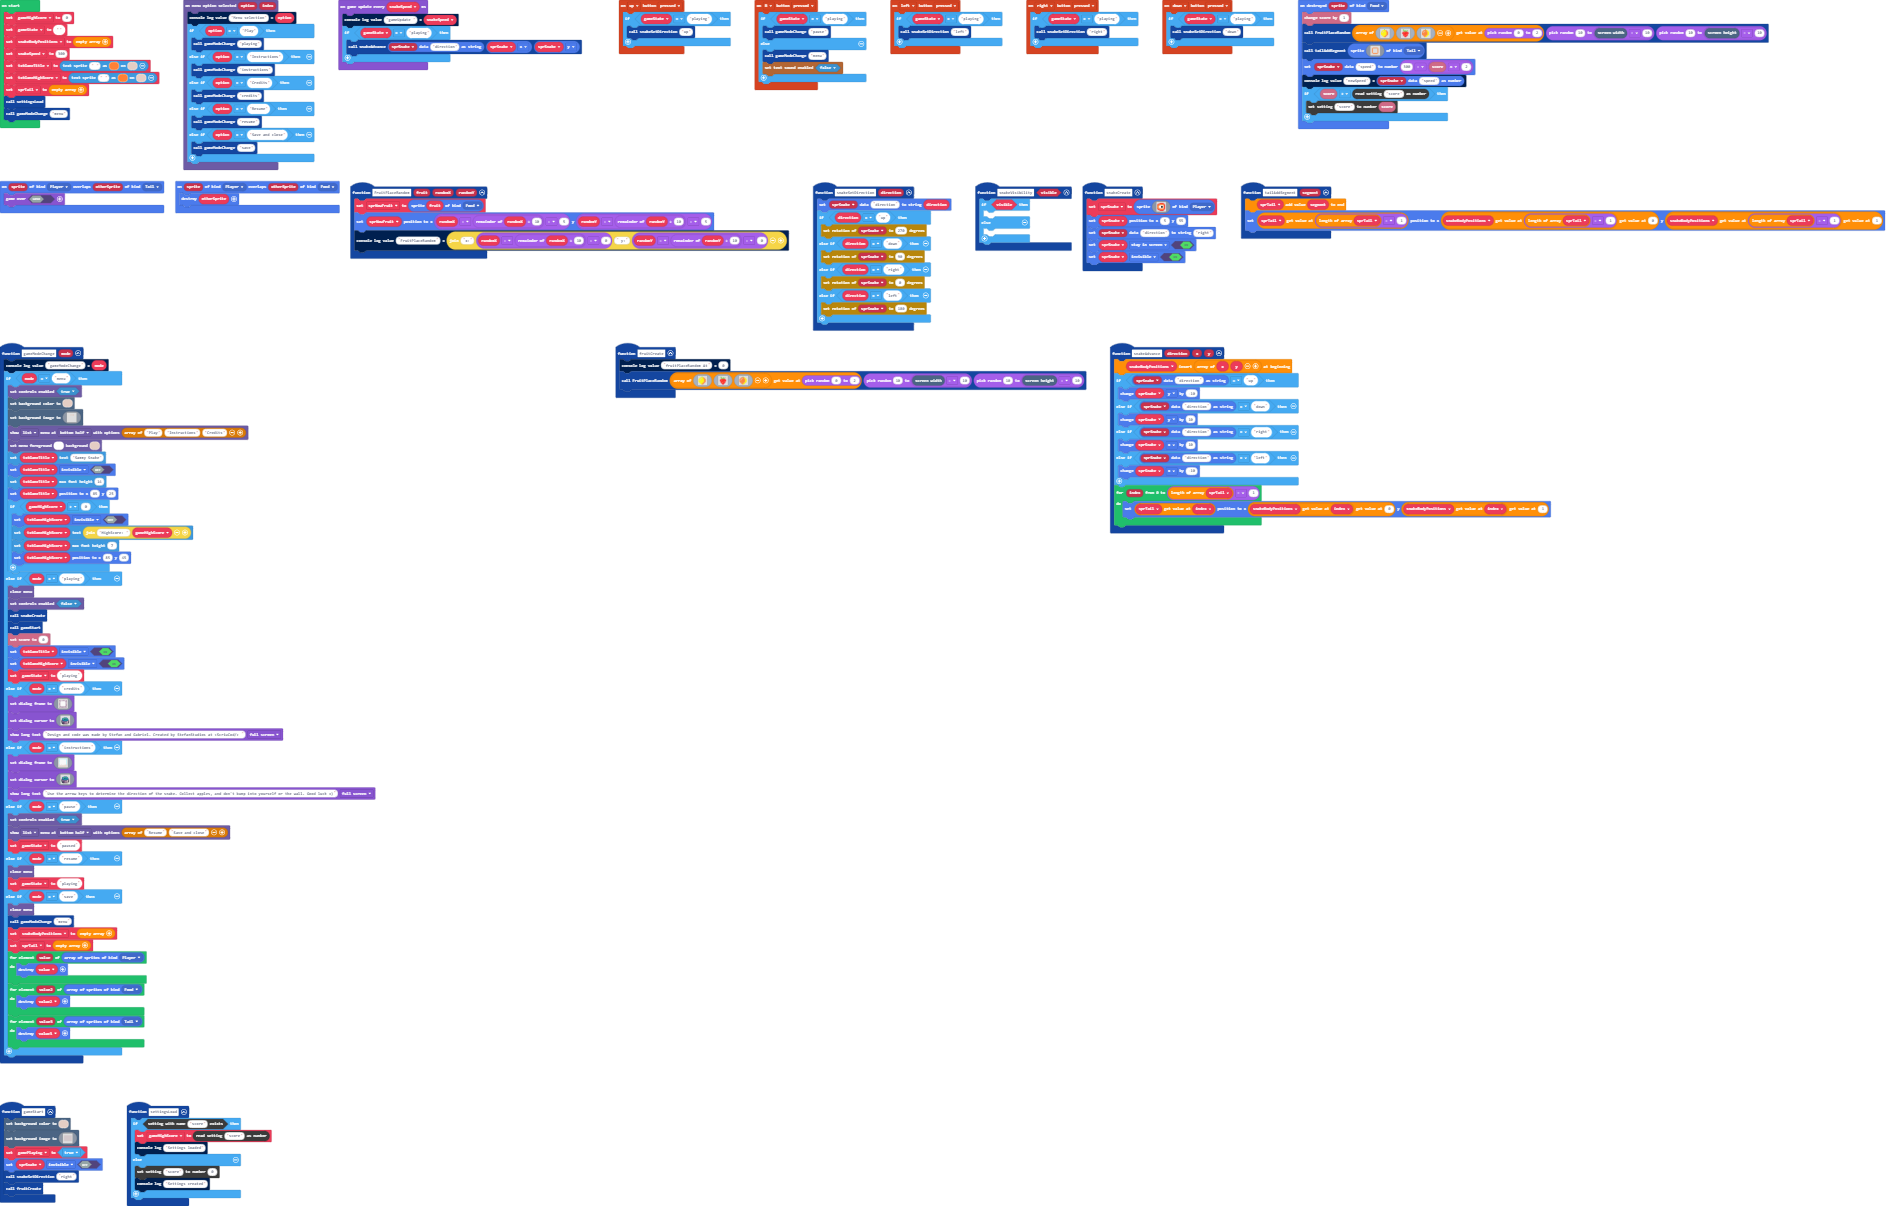
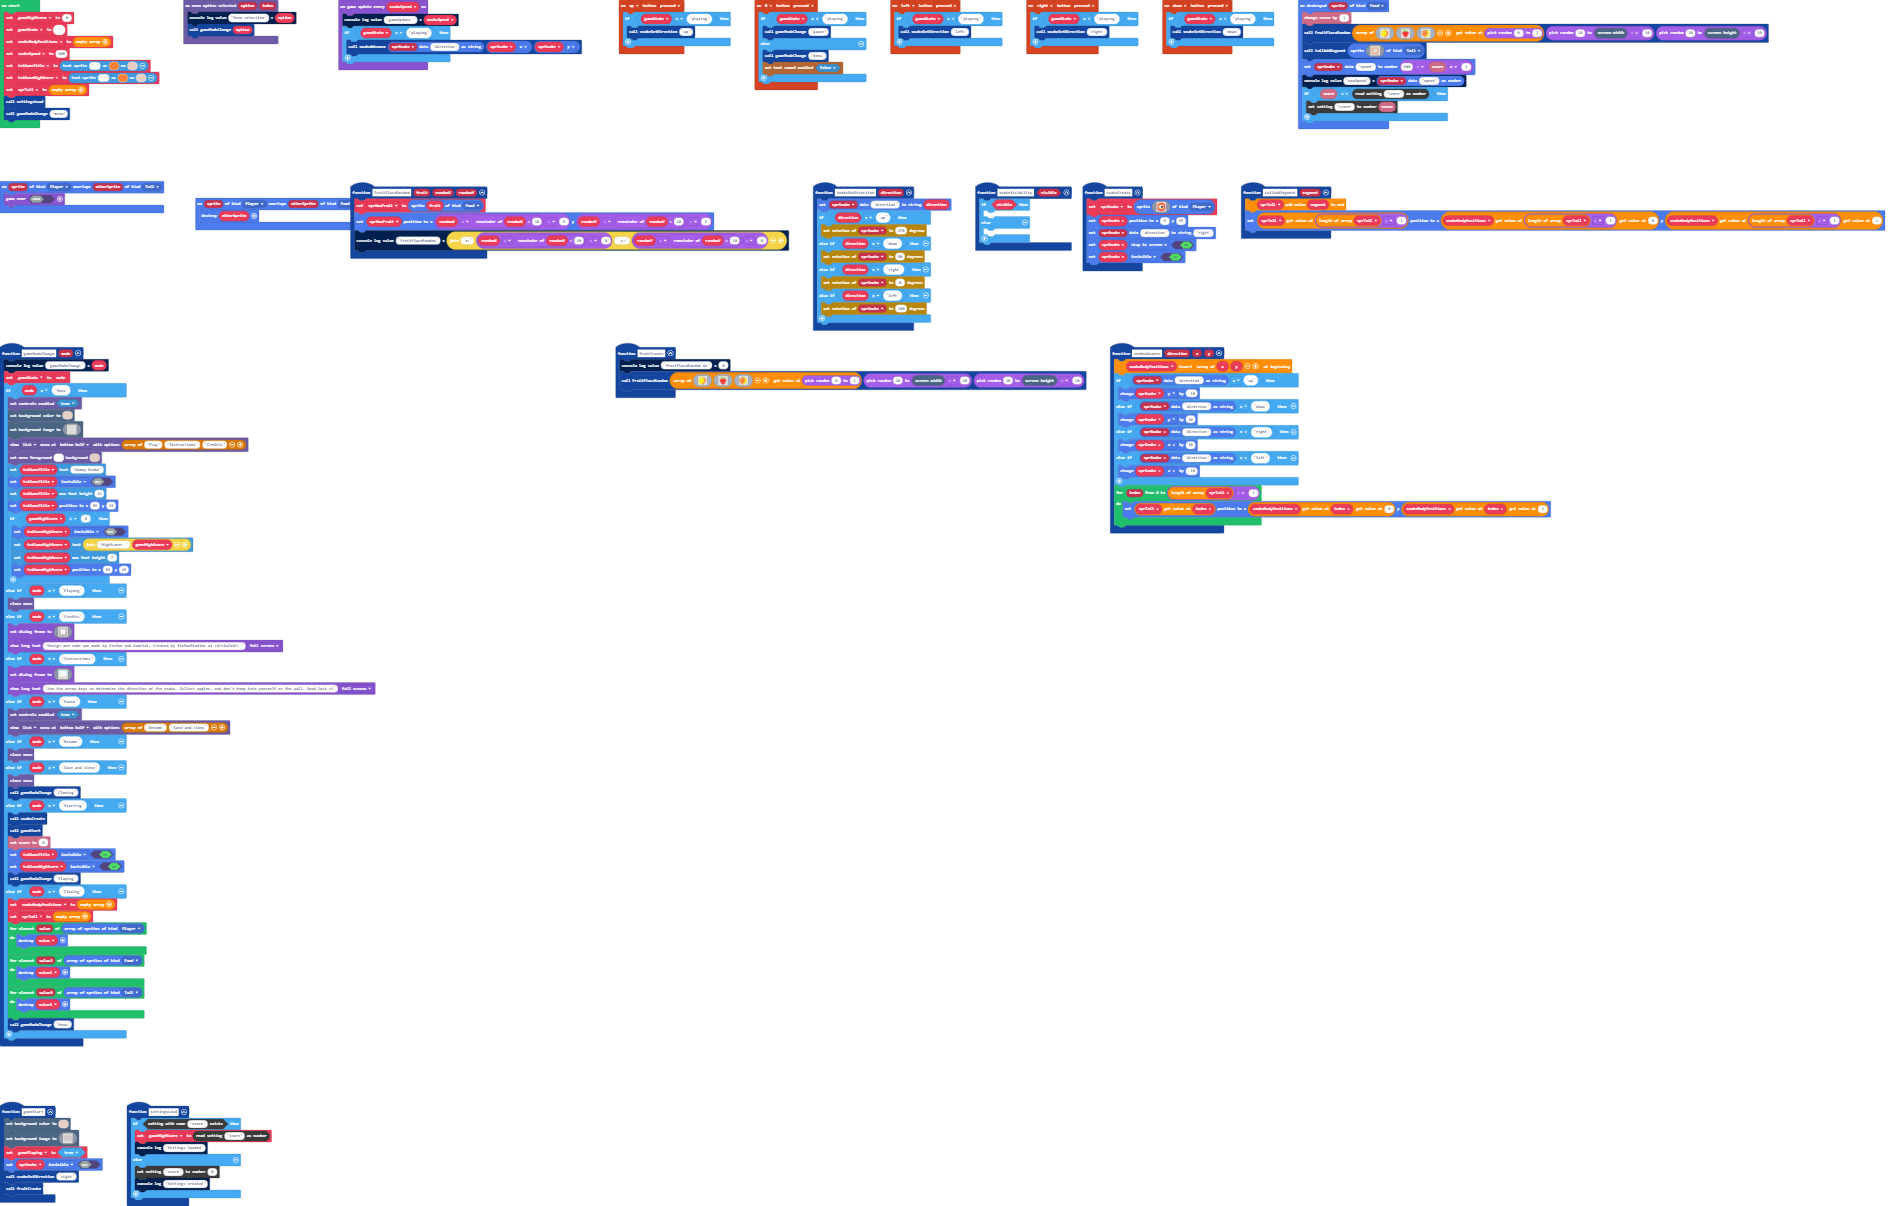
Started adding the game modes Closing, and Starting.

Changed region(s): [[0.0, 0.3068, 0.2176, 0.8897], [0.0933, 0.0, 0.1865, 0.2148]]

diff --git a/main.ts b/main.ts
@@ -69,7 +69,8 @@ function tailAddSegment (segment: Sprite) {
 }
 function gameModeChange (mode: string) {
     console.logValue("gameModeChange", mode)
-    if (mode == "menu") {
+    gameState = mode
+    if (mode == "Menu") {
         blockMenu.setControlsEnabled(true)
         scene.setBackgroundColor(13)
         scene.setBackgroundImage(img`
@@ -206,16 +207,9 @@ function gameModeChange (mode: string) {
             txtGameHighScore.setMaxFontHeight(7)
             txtGameHighScore.setPosition(85, 45)
         }
-    } else if (mode == "playing") {
+    } else if (mode == "Playing") {
         blockMenu.closeMenu()
-        blockMenu.setControlsEnabled(false)
-        snakeCreate()
-        gameStart()
-        info.setScore(0)
-        txtGameTitle.setFlag(SpriteFlag.Invisible, true)
-        txtGameHighScore.setFlag(SpriteFlag.Invisible, true)
-        gameState = "playing"
-    } else if (mode == "credits") {
+    } else if (mode == "Credits") {
         game.setDialogFrame(img`
             ..bbbbbbbbbbbbbbbbbbbb..
             .b11bb11bb11bb11bb11bbb.
@@ -242,42 +236,8 @@ function gameModeChange (mode: string) {
             .bbb11bb11bb11bb11bb11b.
             ..bbbbbbbbbbbbbbbbbbbb..
             `)
-        game.setDialogCursor(img`
-            ................................
-            ................................
-            ................................
-            ................................
-            ................................
-            ..........888888888888..........
-            ........8887777777777888........
-            ......88877666666666677888......
-            .....8877666667777666667788.....
-            ....887666667788887766666788....
-            ....866666677888888996666678....
-            ...88666667788877889976666688...
-            ...88666677888677688877666688...
-            ...88666778888888888887766688...
-            ...88667788888888888888776688...
-            ..cc866788866777777668887668cc..
-            .ccbc8668866666666666688668cbcc.
-            .fcbcc86666666666666666668ccbcf.
-            .fcbbcc886666666666666688ccbdcf.
-            .f8bbbccc88888888888888cccbddcf.
-            .f8cbbbbccccccccccccccccbdddbcf.
-            .f8ccbbbbbccccccccccccb11dddccf.
-            .f6ccccbbbdddddddddddd111ddcccf.
-            .f6ccccccbbddddddddddd11dbbcccf.
-            .f6cccccccccccccbbbbbbbbbdbcccf.
-            ..f6cccccccccbbbbbbbbbbbddbccf..
-            ..f6cccccccccbbbbbbbbbbbddbccf..
-            ..ff6ccccccccbbbbbbbbbbbddbcff..
-            ...ff6cccccccbbbbbbbbbbbddbff...
-            ....ffcccccccbbbbbbbbbbbdbff....
-            ......ffccccbbbbbbbbbbbbff......
-            ........ffffffffffffffff........
-            `)
         game.showLongText("Design and code was made by Stefan and Gabriel. Created by StefanStudios at <ScriuCod/> ", DialogLayout.Full)
-    } else if (mode == "instructions") {
+    } else if (mode == "Instructions") {
         game.setDialogFrame(img`
             999999999999999999999999999999999999999999999999
             999999999999999999999999999999999999999999999999
@@ -328,51 +288,23 @@ function gameModeChange (mode: string) {
             .dddddddddddddddddddddddddddddddddddddddddddddd.
             ..dddddddddddddddddddddddddddddddddddddddddddd..
             `)
-        game.setDialogCursor(img`
-            ................................
-            ................................
-            ................................
-            ................................
-            ................................
-            ..........888888888888..........
-            ........8887777777777888........
-            ......88877666666666677888......
-            .....8877666667777666667788.....
-            ....887666667788887766666788....
-            ....866666677888888996666678....
-            ...88666667788877889976666688...
-            ...88666677888677688877666688...
-            ...88666778888888888887766688...
-            ...88667788888888888888776688...
-            ..cc866788866777777668887668cc..
-            .ccbc8668866666666666688668cbcc.
-            .fcbcc86666666666666666668ccbcf.
-            .fcbbcc886666666666666688ccbdcf.
-            .f8bbbccc88888888888888cccbddcf.
-            .f8cbbbbccccccccccccccccbdddbcf.
-            .f8ccbbbbbccccccccccccb11dddccf.
-            .f6ccccbbbdddddddddddd111ddcccf.
-            .f6ccccccbbddddddddddd11dbbcccf.
-            .f6cccccccccccccbbbbbbbbbdbcccf.
-            ..f6cccccccccbbbbbbbbbbbddbccf..
-            ..f6cccccccccbbbbbbbbbbbddbccf..
-            ..ff6ccccccccbbbbbbbbbbbddbcff..
-            ...ff6cccccccbbbbbbbbbbbddbff...
-            ....ffcccccccbbbbbbbbbbbdbff....
-            ......ffccccbbbbbbbbbbbbff......
-            ........ffffffffffffffff........
-            `)
         game.showLongText("Use the arrow keys to determine the direction of the snake. Collect apples, and don't bump into yourself or the wall. Good luck =)", DialogLayout.Full)
-    } else if (mode == "pause") {
+    } else if (mode == "Pause") {
         blockMenu.setControlsEnabled(true)
         blockMenu.showMenu(["Resume", "Save and close"], MenuStyle.List, MenuLocation.BottomHalf)
-        gameState = "paused"
-    } else if (mode == "resume") {
+    } else if (mode == "Resume") {
         blockMenu.closeMenu()
-        gameState = "playing"
-    } else if (mode == "save") {
+    } else if (mode == "Save and close") {
         blockMenu.closeMenu()
-        gameModeChange("menu")
+        gameModeChange("Closing")
+    } else if (mode == "Starting") {
+        snakeCreate()
+        gameStart()
+        info.setScore(0)
+        txtGameTitle.setFlag(SpriteFlag.Invisible, true)
+        txtGameHighScore.setFlag(SpriteFlag.Invisible, true)
+        gameModeChange("Playing")
+    } else if (mode == "Closing") {
         snakeBodyPositions = []
         sprTail = []
         for (let value of sprites.allOfKind(SpriteKind.Player)) {
@@ -384,6 +316,7 @@ function gameModeChange (mode: string) {
         for (let value3 of sprites.allOfKind(SpriteKind.Tail)) {
             value3.destroy()
         }
+        gameModeChange("Menu")
     }
 }
 controller.right.onEvent(ControllerButtonEvent.Pressed, function () {
@@ -437,17 +370,7 @@ function settingsLoad () {
 }
 blockMenu.onMenuOptionSelected(function (option, index) {
     console.logValue("Menu selection", option)
-    if (option == "Play") {
-        gameModeChange("playing")
-    } else if (option == "Instructions") {
-        gameModeChange("instructions")
-    } else if (option == "Credits") {
-        gameModeChange("credits")
-    } else if (option == "Resume") {
-        gameModeChange("resume")
-    } else if (option == "Save and close") {
-        gameModeChange("save")
-    }
+    gameModeChange(option)
 })
 let gamePlaying = false
 let sprSnake: Sprite = null
